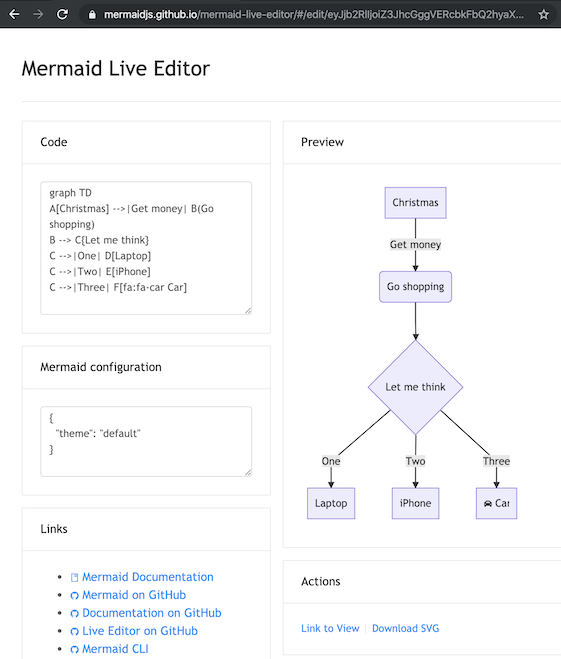
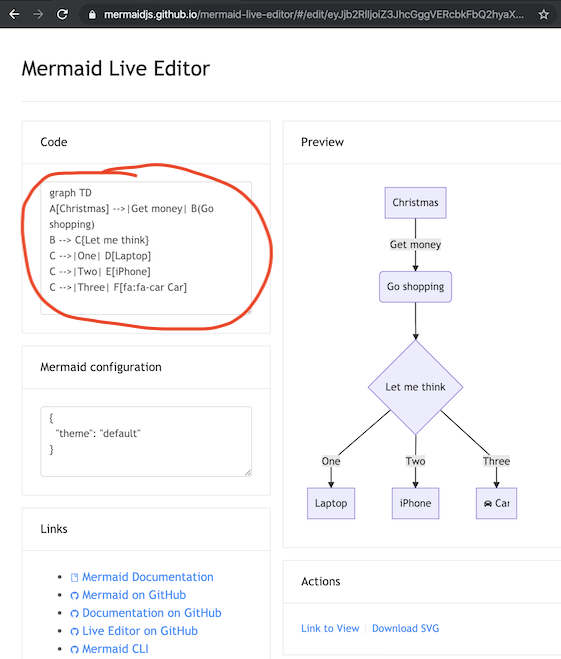
Polishing

diff --git a/docs/n00b-gettingStarted.md b/docs/n00b-gettingStarted.md
@@ -2,11 +2,16 @@
 
 Writing mermaid code is simple.
 
-But how is it turned into a diagram in a web page? To do this We need a mermaid renderer.
+But how is it turned into a diagram in a web page? To do this we need a mermaid renderer.
 
-Thankfully the mermaid renderer is very accessible. The requirement is on the part of the web browser (modern web browsers such as Firefox, Chrome, Safari work, but Internet Explorer does not). The web browser also needs to be able to access the online mermaid renderer at cdn.jsdelivr.net/npm/
+Thankfully the mermaid renderer is very accessible.
 
-Here is one example using an online mermaid editor, one example using a mermaid plugin and one example using a generic web server.
+The requirement is on the part of the web browser. Modern web browsers work, such as Firefox, Chrome, Safari. But Internet Explorer does not. The web browser also needs to be able to access the online mermaid renderer at cdn.jsdelivr.net/npm/
+
+For an easy introduction, here follows three practical examples using:
+1. an online mermaid editor
+2. a mermaid plugin
+3. a generic web server of your choosing
 
 Following either of these examples, you can get started converting your own mermaid code into web diagrams.
 
@@ -24,7 +29,7 @@ It is also the easiest way to develop diagrams, the code of which can be pasted 
 
 The `Mermaid configuration` is for controlling the behaviour of mermaid.
 
-An easy introduction is found in the [n00b Advanced section] and a complete configuration reference is found [here].
+An easy introduction to mermaid configuration is found in the [n00b Advanced section]. A complete configuration reference is found [here].
 
 
 ## mermaid using plugins
@@ -49,13 +54,13 @@ When the mermaid plugin is installed on a Confluence server, one can insert a me
 
 ---
 
-- The mermaid object appears. Paste your mermaid code in it.
+- The mermaid object appears. Paste your mermaid code into it.
 
 ![Flowchart](./img/n00b-Confluence3.png)
 
 ---
 
-- Save the page.
+- Save the page and the diagram appears.
 
 ![Flowchart](./img/n00b-Confluence4.png)
 
@@ -63,20 +68,20 @@ When the mermaid plugin is installed on a Confluence server, one can insert a me
 
 ## mermaid using any web server
 
-This example can be used with any web server: Apache, IIS, nginx, node express [...]
+This example can be used with any common web server. Apache, IIS, nginx, node express [...], you pick your favourite.
 
-We do not need to install anything on the server, to have it serve a mermaid diagram to a web browser (such as Firefox, Chrome, Safari, but not Internet Explorer).
+We do not need to install anything on the server, apart from a normal file of html which can be reached by a web browser (such as Firefox, Chrome, Safari, but not Internet Explorer).
 
-Instead, we need to give the web browser three instructions inside the html code it retrieves:
-1. a reference for fetching the online mermaid renderer, which in essence is a javascript.
+Through the html file, we give the web browser three instructions inside the html code it retrieves:
+1. a reference for fetching the online mermaid renderer, in essence a javascript.
 2. the mermaid code we want to diagram.
-3. the initialize mermaid command.
+3. the `mermaid.initialize()` command to start the rendering process
 
 All this is done in the html `<body>` section of the web page.
 
 
 
-The reference to the mermaid renderer is done in a `<script src>` tag like so:
+1. The reference to the mermaid renderer is done in a `<script src>` tag like so:
 
 ```
 <body>
@@ -84,7 +89,7 @@ The reference to the mermaid renderer is done in a `<script src>` tag like so:
 </body>
 ```
 
-The embedded mermaid code is similarly placed in a `<script>` tag:
+2. The embedded mermaid code is similarly placed in a `<script>` tag:
 
 ```
 <body>
@@ -98,7 +103,7 @@ The embedded mermaid code is similarly placed in a `<script>` tag:
 </body>
 ```
 
-Initializing mermaid has the effekt of it starting to render the content of all the `<div class="mermaid">` tags it finds in the web page, and is done so:
+3. When initializing mermaid, it starts to render the content of all the `<div class="mermaid">` tags it can find in the html body. This is done like so:
 
 ```
 <body>
@@ -106,14 +111,12 @@ Initializing mermaid has the effekt of it starting to render the content of all 
 </body>
 ```
 
-Putting the three steps together is as simple as:
+*Finally*
+4. Putting the three steps together is as simple as:
 ```
 <html>
   <body>
-    Here the mermaid renderer is loaded:
     <script src="//cdn.jsdelivr.net/npm/mermaid@8.4.0/dist/mermaid.min.js"></script>
-    
-    Here we trigger the mermaid renderer, upon which it starts looking for mermaid <div> tags:
     <script>mermaid.initialize({startOnLoad:true});</script>
 
     Here is one mermaid diagram:
@@ -143,9 +146,9 @@ Voila!
 Three additional comments from Knut, the creator of mermaid:
 - In early versions of mermaid, the `<script src>` tag was invoked in the `<head>` part of the web page. Nowdays we can place it directly in `<body>` as seen above. However, the documentation still frequently reflects the old way which still works.
   
-- We initialize the mermaid rendering with `mermaid.initialize()` directly in the html code, this could instead in principle be done through placing `mermaid.initialize()` inside of mermaid.min.js. We would thereby eliminate this explicit line in the html. However, there are use cases where we do want to separate these two steps. Sometimes we want full control over when we start looking for `<div>`tags inside the web page, as all `<div>` tags may not have loaded when `mermaid.min.js` runs.
+- We initialize the mermaid rendering with `mermaid.initialize()` directly in the html code, in principle this could instead be done through placing `mermaid.initialize()` inside of mermaid.min.js. We would thereby eliminate this explicit line in the html. However, there are use cases where we do want to separate these two steps. Sometimes we want full control over when we start looking for `<div>`tags inside the web page, as all `<div>` tags may not have loaded when `mermaid.min.js` runs.
 
-- In the example above, the `mermaid.min.js` is called using an absolute path. Even worse, it includes the mermaid version, which will of course change as time goes by. However the example makes it easy to understand what is going on, even though it is doomed in a way we do not want in a production environment. When going from testing mermaid out to getting serious with it, I would suggest one of the following approaches for calling `mermaid.min.js`:
+- In the example above, the `mermaid.min.js` is called using an absolute path. Even worse, it includes the mermaid version number, which will of course change as time goes by. However the example makes it easy to understand what is going on, even though it is doomed in a way we do not want in a production environment. When going from testing mermaid out to getting serious with it, I would suggest one of the following approaches for calling `mermaid.min.js`:
   
   1. One
   2. Two
